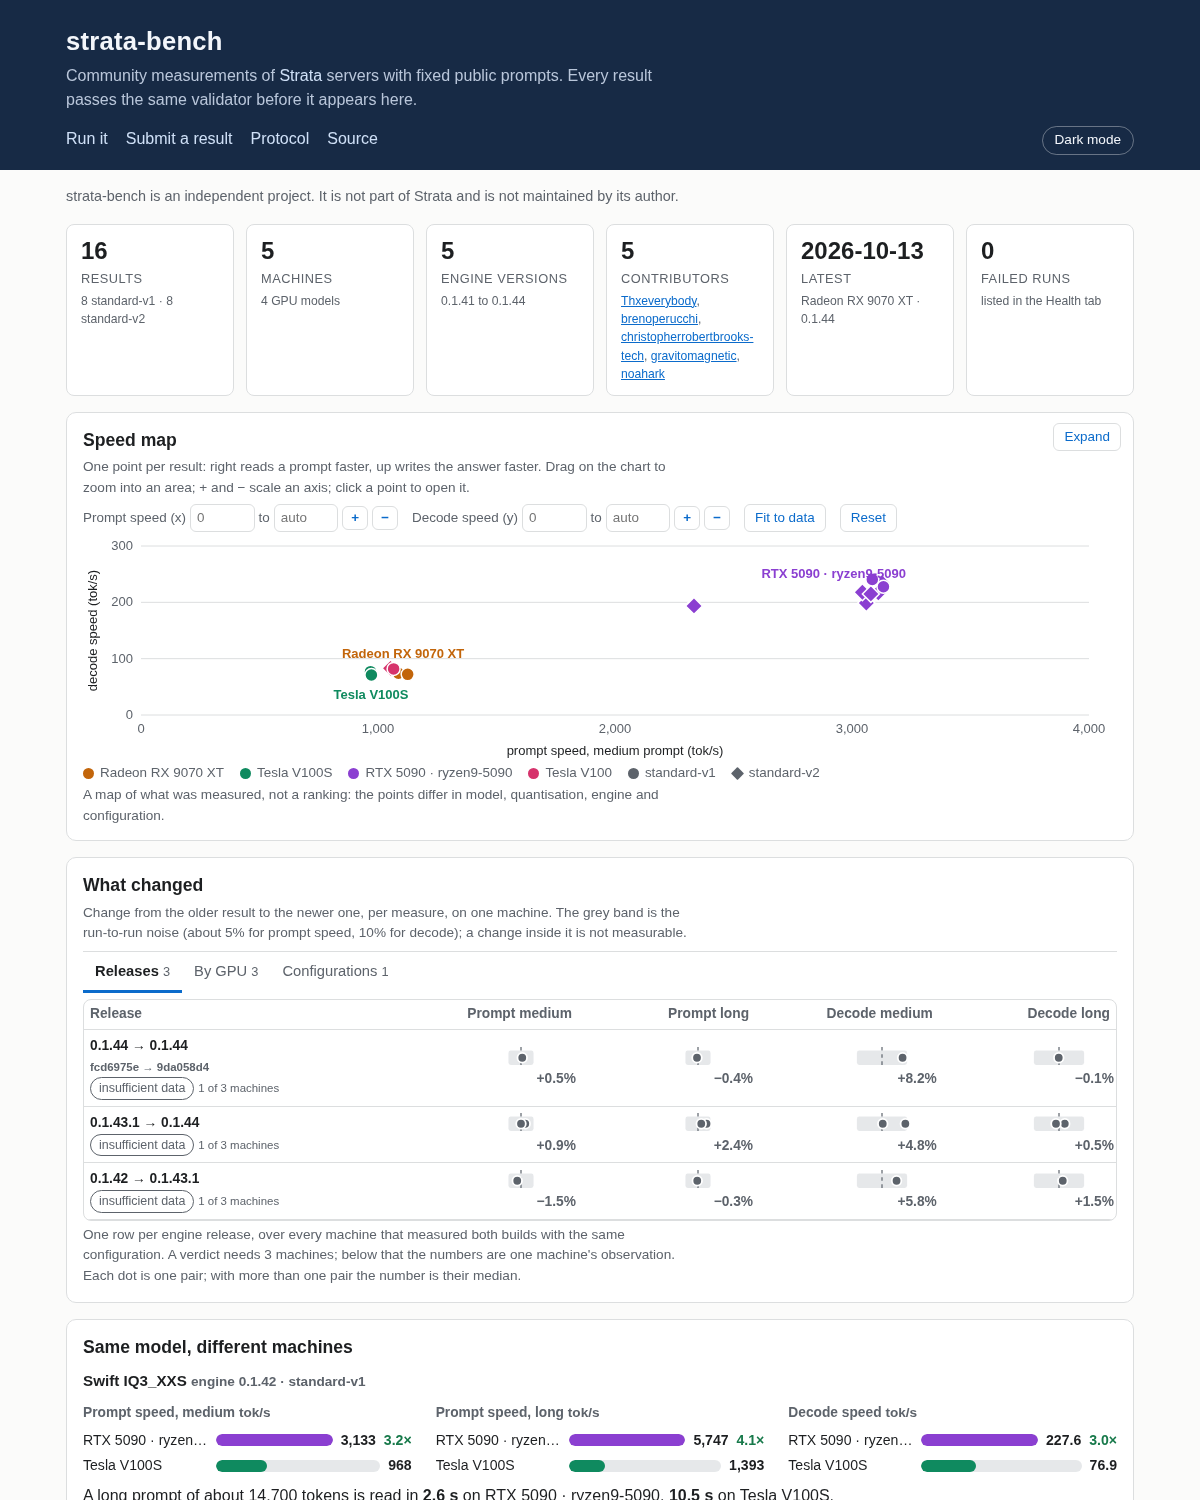
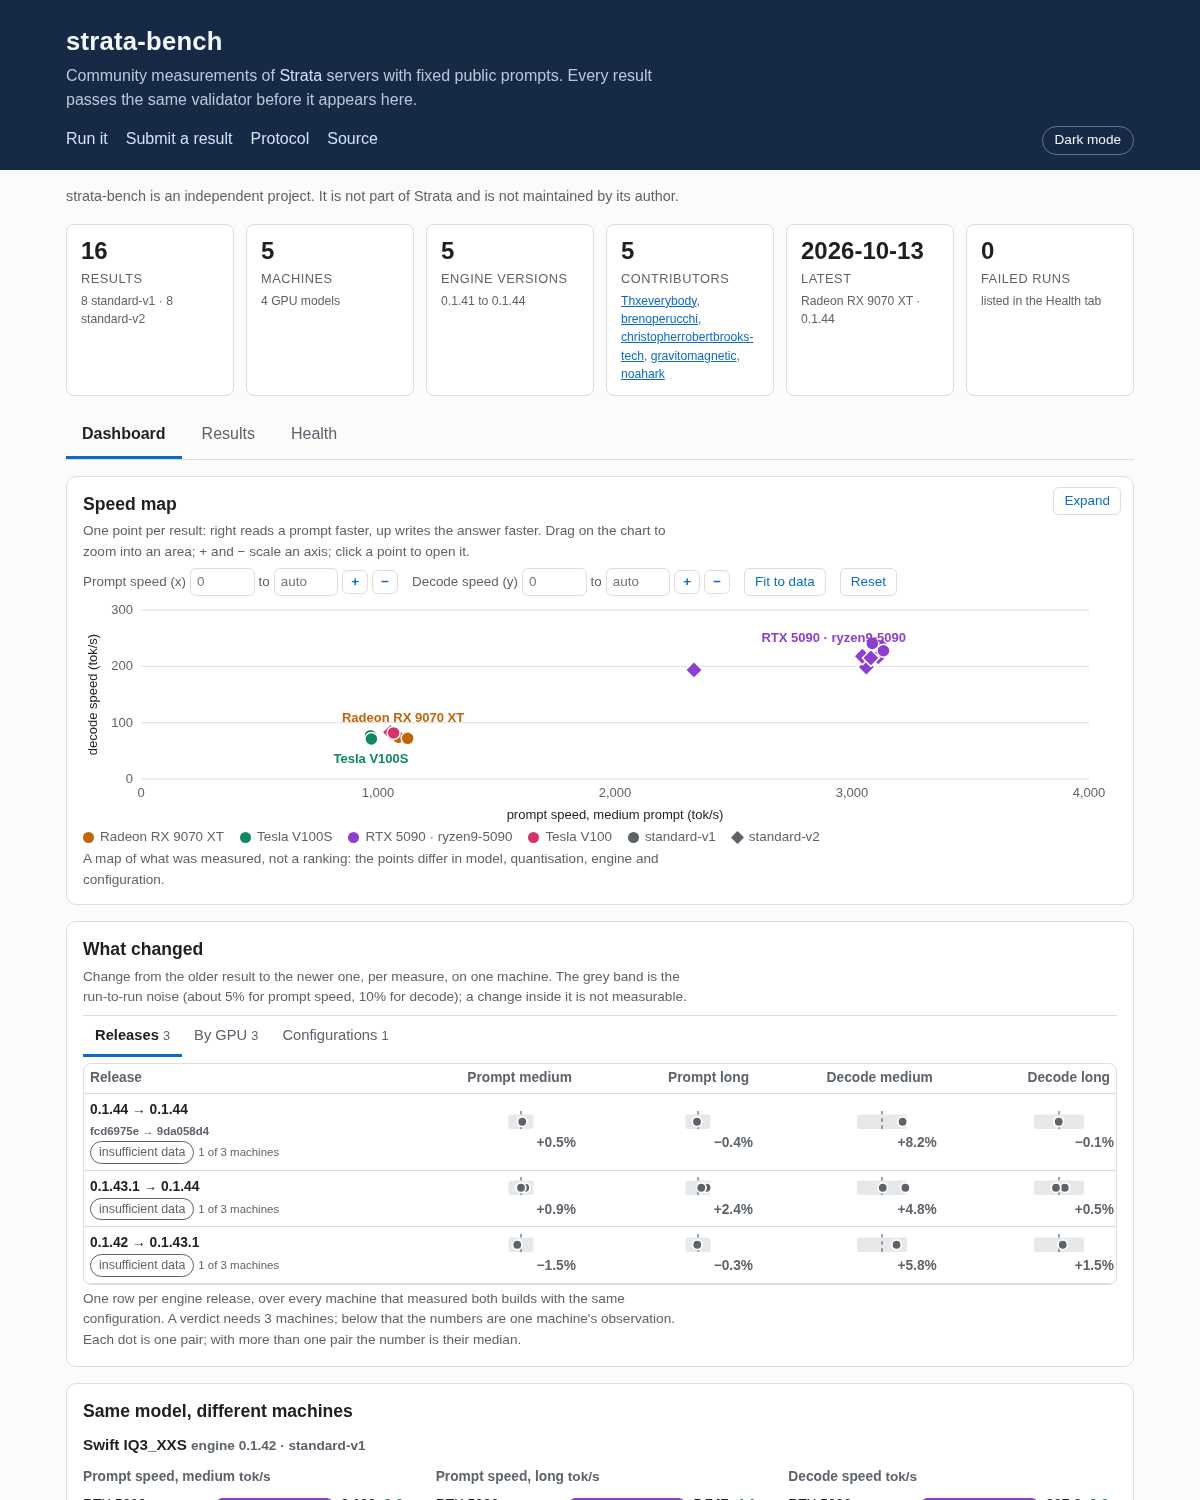
Dashboard page in three tabs: Dashboard, Results, Health
The overview (speed map, What changed, Same model) moves under a Dashboard tab that opens first; the old Performance tab is now Results. The summary strip stays above the tabs. The address keeps the tab (#results, #health), and a link that carries a filter (?by=, ?machine=, ?compare=) opens on Results. README text and screenshots updated.

diff --git a/docs/app.js b/docs/app.js
@@ -19,7 +19,7 @@
   // the overview panels need the insight modules; the table and the filters below work without them
   function overview(rows) {
     var O = typeof StrataOverview !== "undefined" ? StrataOverview : null;
-    if (!O || !rows.length) return;
+    if (!O || !rows.length) return null;
     $("overview").hidden = false;                                  // shown first: the speed map is drawn at the width its card has
     [["ov-pairs", O.pairs], ["ov-same", O.sameModel]].forEach(function (p) { var html = p[1](rows); $(p[0]).innerHTML = html; $(p[0]).hidden = !html; });
     var map = $("ov-map");
@@ -31,6 +31,7 @@
     };
     draw();
     expandable(map, draw, view, function () { return O.fit(rows); });
+    return draw;                                                    // drawn again when the Dashboard tab is shown: its card has no width while the tab is hidden
   }
 
   // The speed map can be opened over the page: a button on the card, and Escape or the button again to close it. It is redrawn at each size.
@@ -213,23 +214,34 @@
       "<thead><tr><th>Engine</th><th class='num'>Runs</th><th class='num'>Failed</th><th colspan='5'></th></tr></thead><tbody>" + eng + "</tbody>";
   }
 
-  function tabs() {
-    var sel = function (which) {
-      $("tab-perf").setAttribute("aria-selected", which === "perf"); $("tab-health").setAttribute("aria-selected", which === "health");
-      $("view-perf").hidden = which !== "perf"; $("view-health").hidden = which !== "health";
-      try { history.replaceState(null, "", which === "health" ? "#health" : "#"); } catch (e) { /* file:// */ }
+  // Dashboard (the overview), Results (the table) and Health. The address keeps the tab: #results, #health, nothing for the Dashboard.
+  // A link that carries a filter (?by=, ?machine=, ?compare=) is about the table, so it opens on Results.
+  var TABS = [["dash", "dashboard"], ["perf", "results"], ["health", "health"]];
+  function tabs(redrawMap) {
+    var fromHash = function () {
+      var h = String(location.hash || "").replace(/^#/, "").toLowerCase(), t = TABS.filter(function (x) { return x[1] === h; })[0];
+      if (t) return t[0];
+      try { var q = new URLSearchParams(location.search); if (q.get("by") || q.get("machine") || q.get("compare")) return "perf"; } catch (e) { /* no URL support */ }
+      return "dash";
     };
-    $("tab-perf").addEventListener("click", function () { sel("perf"); });
-    $("tab-health").addEventListener("click", function () { sel("health"); });
-    if (location.hash === "#health") sel("health");
+    var sel = function (which, keep) {
+      TABS.forEach(function (t) { $("tab-" + t[0]).setAttribute("aria-selected", t[0] === which); $("view-" + t[0]).hidden = t[0] !== which; });
+      if (which === "dash" && redrawMap) redrawMap();
+      if (keep) return;
+      var name = TABS.filter(function (t) { return t[0] === which; })[0][1];
+      try { history.replaceState(null, "", location.pathname + location.search + (which === "dash" ? "" : "#" + name)); } catch (e) { /* file:// */ }
+    };
+    TABS.forEach(function (t) { $("tab-" + t[0]).addEventListener("click", function () { sel(t[0]); }); });
+    if (typeof window !== "undefined" && typeof window.addEventListener === "function") window.addEventListener("hashchange", function () { sel(fromHash(), true); });
+    sel(fromHash(), true);
   }
 
   fetch("data.json", { cache: "no-cache" }).then(function (r) { return r.json(); }).then(function (data) {
     state.rows = data.results || [];
     cards(state.rows);
-    overview(state.rows);
-    tabs();
-    if (!state.rows.length) { $("empty").hidden = false; $("view-perf").hidden = true; $("view-health").hidden = true; document.querySelector(".tabs").hidden = true; return; }
+    var redrawMap = overview(state.rows);
+    tabs(redrawMap);
+    if (!state.rows.length) { $("empty").hidden = false; $("view-dash").hidden = true; $("view-perf").hidden = true; $("view-health").hidden = true; document.querySelector(".tabs").hidden = true; return; }
     readLink();
     try { var pre = new URLSearchParams(location.search).get("compare"); if (pre && state.rows.some(function (r) { return r.id === pre; })) state.selected = [pre]; } catch (e) { /* no URL support */ }   // from a detail page: start the comparison with that result
     ["by", "machine_id"].forEach(function (k) { if (uniq(state.rows, k).indexOf(state.filters[k]) < 0) state.filters[k] = ""; });   // a link to an unknown name shows everything

diff --git a/docs/index.html b/docs/index.html
@@ -24,16 +24,19 @@
 <main class="wrap">
   <p class="note" id="independence">strata-bench is an independent project. It is not part of Strata and is not maintained by its author.</p>
   <section id="cards" class="cards" aria-label="Summary"></section>
-  <section id="overview" class="overview" aria-label="Overview" hidden>
-    <article class="panel full" id="ov-map"></article>
-    <article class="panel full" id="ov-pairs"></article>
-    <article class="panel full" id="ov-same"></article>
-  </section>
   <div class="tabs" role="tablist">
-    <button role="tab" id="tab-perf" aria-selected="true" aria-controls="view-perf">Performance</button>
+    <button role="tab" id="tab-dash" aria-selected="true" aria-controls="view-dash">Dashboard</button>
+    <button role="tab" id="tab-perf" aria-selected="false" aria-controls="view-perf">Results</button>
     <button role="tab" id="tab-health" aria-selected="false" aria-controls="view-health">Health</button>
   </div>
-  <section id="view-perf" role="tabpanel" aria-labelledby="tab-perf">
+  <section id="view-dash" role="tabpanel" aria-labelledby="tab-dash">
+    <section id="overview" class="overview" aria-label="Overview" hidden>
+      <article class="panel full" id="ov-map"></article>
+      <article class="panel full" id="ov-pairs"></article>
+      <article class="panel full" id="ov-same"></article>
+    </section>
+  </section>
+  <section id="view-perf" role="tabpanel" aria-labelledby="tab-perf" hidden>
     <div class="filters" id="filters"></div>
     <div class="compare-bar" id="compare-bar"><span id="compare-count">Tick two or three rows to compare them: a scoreboard shows who is in front on more measures.</span> <a class="button" id="compare-go" href="#" aria-disabled="true">Compare</a></div>
     <div class="scroll"><table id="perf"></table></div>

diff --git a/docs/style.css b/docs/style.css
@@ -195,3 +195,4 @@ details.gpu > summary { color: var(--fg); }
 svg.viz .sel { fill: var(--accent); fill-opacity: .12; stroke: var(--accent); stroke-width: 1; stroke-dasharray: 4 3; pointer-events: none; }
 #ov-map .hint { margin: 2px 0; }
 #ov-map .legend { margin: 2px 0 0; }
+#view-dash > .overview { margin-top: 16px; }

diff --git a/tests/test_overview.py b/tests/test_overview.py
@@ -251,6 +251,34 @@ class OverviewHtml(unittest.TestCase):
         self.assertLessEqual(int(short[0]), 270)                                     # the card stays low
         self.assertEqual(short[1], "600")                                            # opened over the page it takes the height it is given
 
+    def opening_tab(self, location=None):
+        data = {"protocols": ["standard-v1"], "count": 1, "results": [row("a")]}
+        tmp = Path(tempfile.mkdtemp())
+        self.addCleanup(shutil.rmtree, tmp, True)
+        (tmp / "data.json").write_text(json.dumps(data))
+        args = [NODE, str(ROOT / "tests" / "js" / "render_dashboard.mjs"), str(ROOT / "docs" / "app.js"), str(tmp / "data.json")] + ([json.dumps(location)] if location else [])
+        r = subprocess.run(args, capture_output=True, text=True, timeout=30)
+        self.assertEqual((r.returncode, r.stderr), (0, ""), r.stderr)
+        return json.loads(r.stdout)["__views"]
+
+    def test_the_page_opens_on_the_dashboard_and_a_filter_link_opens_on_the_results(self):
+        self.assertEqual(self.opening_tab(), "dash:shown perf:hidden health:hidden")
+        self.assertEqual(self.opening_tab({"search": "?by=someone"}), "dash:hidden perf:shown health:hidden")           # a link about one person's results is about the table
+        self.assertEqual(self.opening_tab({"search": "?machine=m1"}), "dash:hidden perf:shown health:hidden")
+        self.assertEqual(self.opening_tab({"hash": "#health"}), "dash:hidden perf:hidden health:shown")
+        self.assertEqual(self.opening_tab({"search": "?by=someone", "hash": "#dashboard"}), "dash:shown perf:hidden health:hidden")   # an explicit tab wins
+
+    def test_the_tabs_are_dashboard_results_health_and_the_overview_lives_under_the_first(self):
+        html = (ROOT / "docs" / "index.html").read_text()
+        order = [html.index(f'id="tab-{t}"') for t in ("dash", "perf", "health")]
+        self.assertEqual(order, sorted(order))
+        self.assertIn(">Dashboard</button>", html)
+        self.assertIn(">Results</button>", html)
+        dash = html[html.index('id="view-dash"'):html.index('id="view-perf"')]
+        self.assertIn('id="overview"', dash)
+        self.assertIn('id="ov-map"', dash)
+        self.assertLess(html.index('id="cards"'), html.index('id="tab-dash"'))                                            # the summary strip stays above the tabs
+
     def test_the_page_loads_the_insight_modules_before_the_app(self):
         html = (ROOT / "docs" / "index.html").read_text()
         self.assertLess(html.index("insights.js"), html.index("overview.js"))

diff --git a/README.md b/README.md
@@ -18,7 +18,7 @@ strata-bench is an independent project. It is not part of Strata and is not main
 
 - A runner that measures a Strata server you already run and writes one `result.json` (schema `strata-bench/v1`, or `strata-bench/v2` with `--protocol standard-v2`) per configuration.
 - A validator that is the public-export gate: it accepts only results of the public protocol and refuses anything that looks like a local path, a private address or a secret.
-- A dashboard with an overview and two views. The overview opens with a summary strip, a full-width speed map (one point per result; drag on the chart to zoom into an area, use + and − to scale an axis, type a range or fit it to the data, and Expand opens it over the page), a "What changed" panel with three tabs (Releases: one row per engine release over every machine, By GPU: each machine's comparisons in compact rows, Configurations: the arguments that differ), drawn against the run-to-run noise band, and the same model on different machines. The panel keeps its height as results grow: groups fold and long lists stop at five rows. It says "insufficient data" instead of a verdict until three machines back a release, and a pair where the build and the configuration changed together is shown but flagged, since it does not say which one moved the numbers. Performance lists every result with prompt and decode speeds side by side for the same model and config. Tick two or three results and Compare opens them side by side, with a scoreboard of who is in front on more measures: only measures present in every selected result count, a lead inside the run-to-run noise band is a tie, and it says in words that this counts measures and does not show one setup is better overall or why. Health lists the catastrophic failures that runs recorded: crash, out of memory, degenerate output, hang, server error.
+- A dashboard under a summary strip, in three tabs: Dashboard, Results and Health. The Dashboard tab opens with a full-width speed map (one point per result; drag on the chart to zoom into an area, use + and − to scale an axis, type a range or fit it to the data, and Expand opens it over the page), a "What changed" panel with three tabs (Releases: one row per engine release over every machine, By GPU: each machine's comparisons in compact rows, Configurations: the arguments that differ), drawn against the run-to-run noise band, and the same model on different machines. The panel keeps its height as results grow: groups fold and long lists stop at five rows. It says "insufficient data" instead of a verdict until three machines back a release, and a pair where the build and the configuration changed together is shown but flagged, since it does not say which one moved the numbers. The Results tab lists every result with prompt and decode speeds side by side for the same model and config; a link with a filter (`?by=name`) opens on it. Tick two or three results and Compare opens them side by side, with a scoreboard of who is in front on more measures: only measures present in every selected result count, a lead inside the run-to-run noise band is a tie, and it says in words that this counts measures and does not show one setup is better overall or why. The Health tab lists the catastrophic failures that runs recorded: crash, out of memory, degenerate output, hang, server error.
 
 ## Run it
 
